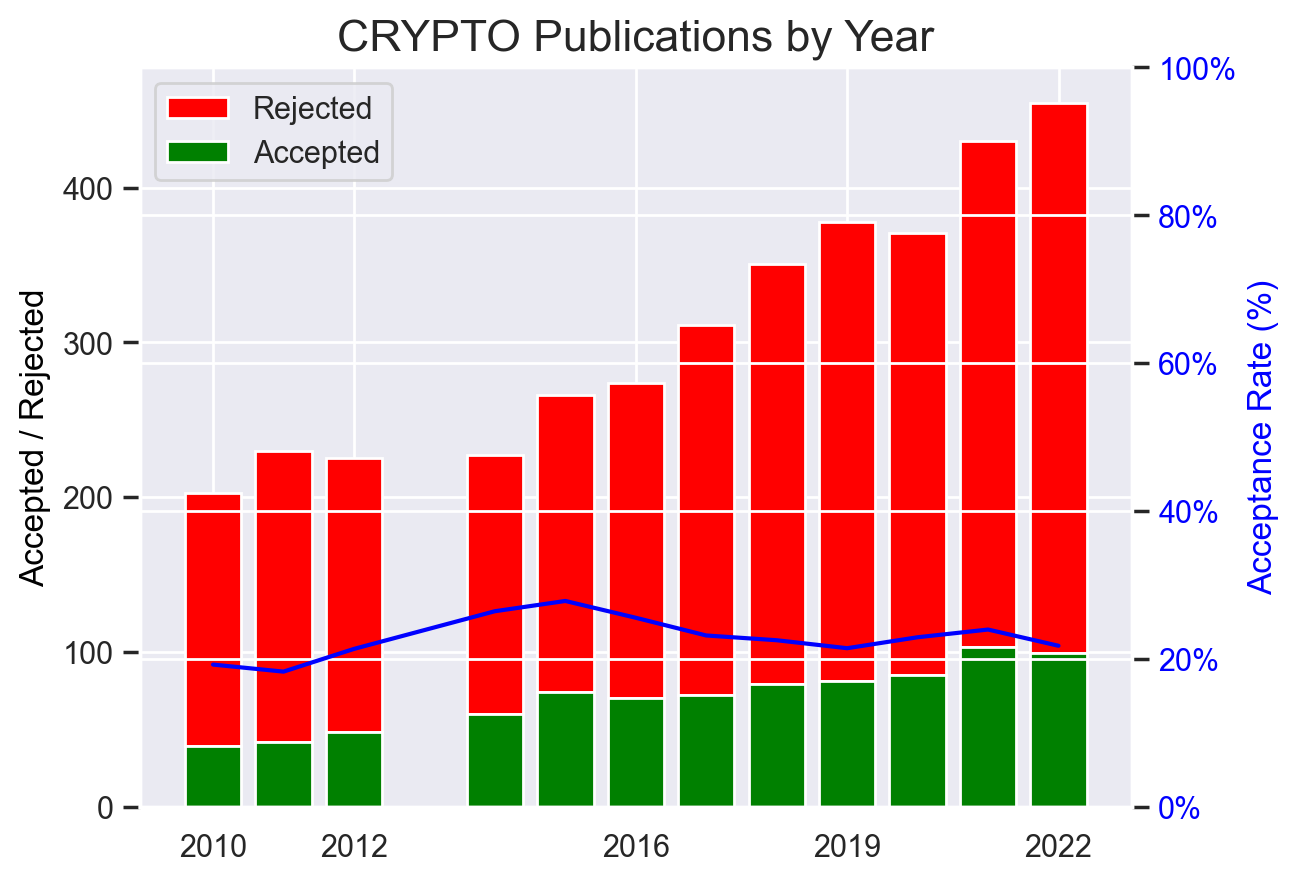
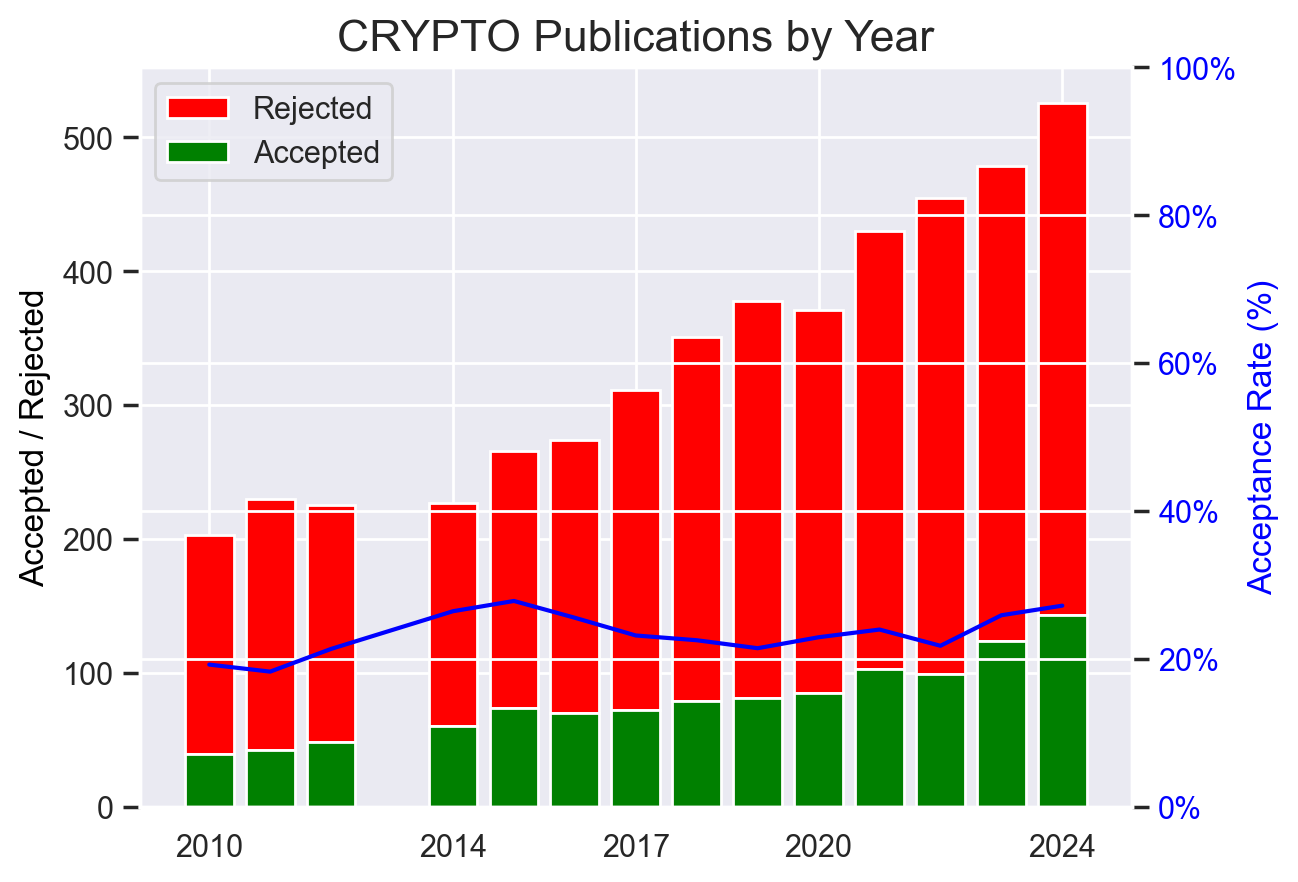
Updated crypto.

diff --git a/README.md b/README.md
@@ -56,7 +56,7 @@
 </summary>
 <A NAME="CRYPTO"></A>
 <P><B><A HREF="https://dblp.org/db/conf/crypto/index.html">CRYPTO</A></B>
- <em>mean acceptance rate, last 5 years: 23%</em></P>
+ <em>mean acceptance rate, last 5 years: 24%</em></P>
 <IMG SRC="https://github.com/emeryberger/csconferences/blob/main/graphs/CRYPTO.png?raw=true" WIDTH="500">
 <A NAME="EuroCrypt"></A>
 <P><B><A HREF="https://dblp.org/db/conf/eurocrypt/index.html">EuroCrypt</A></B>
